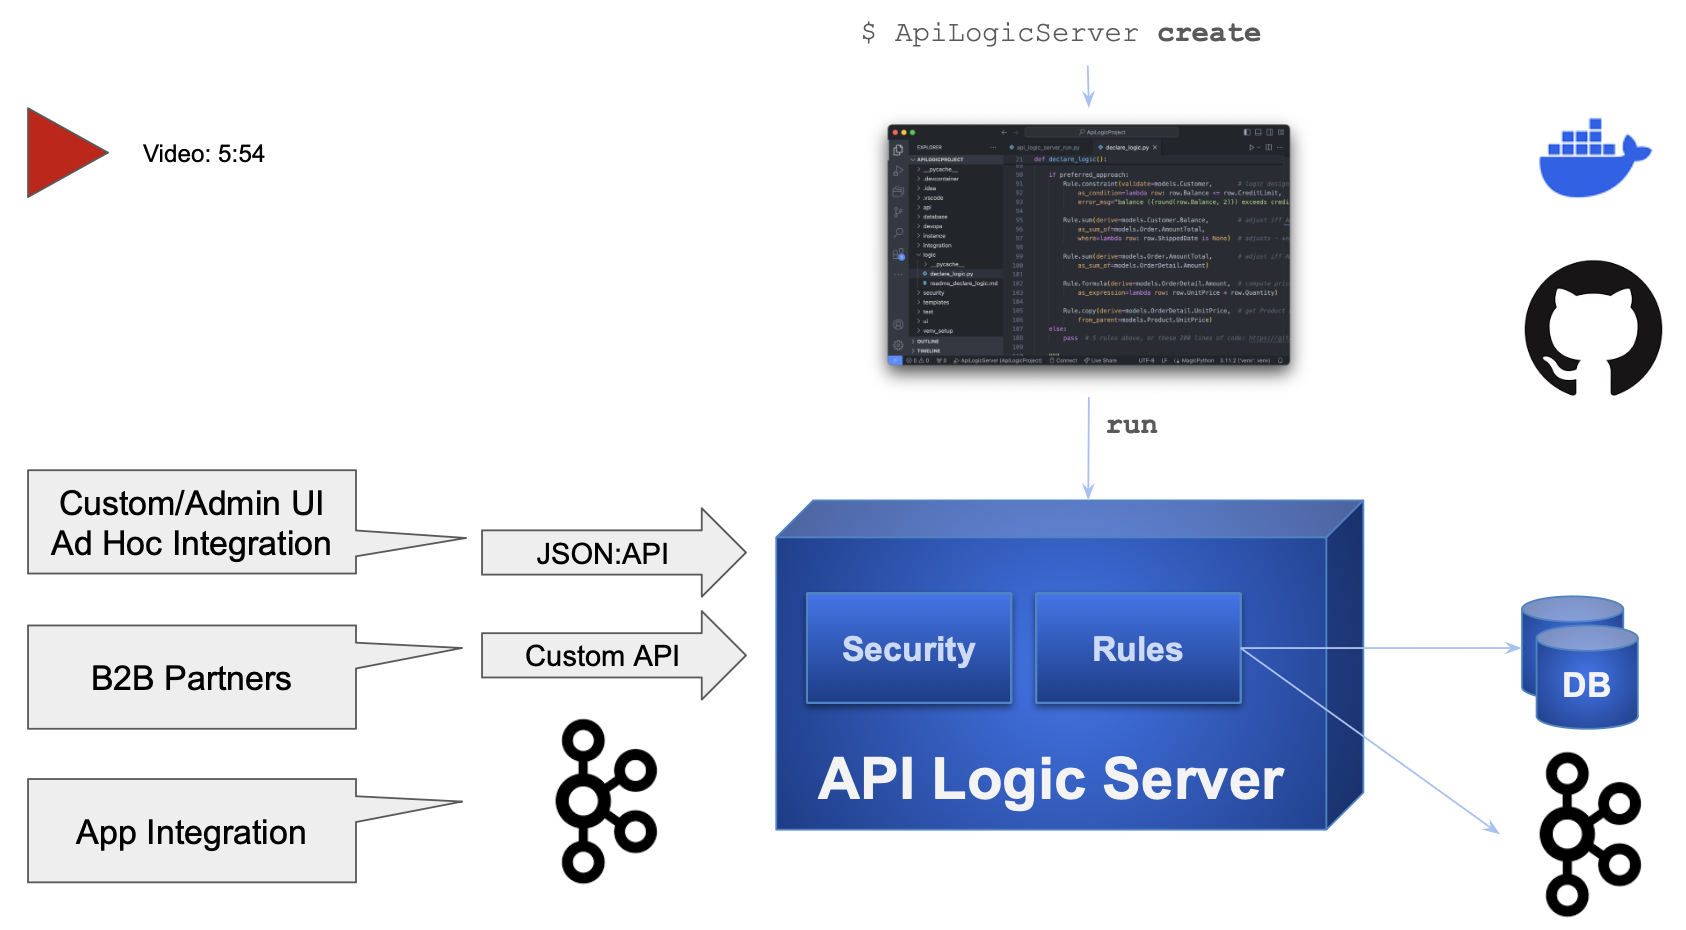
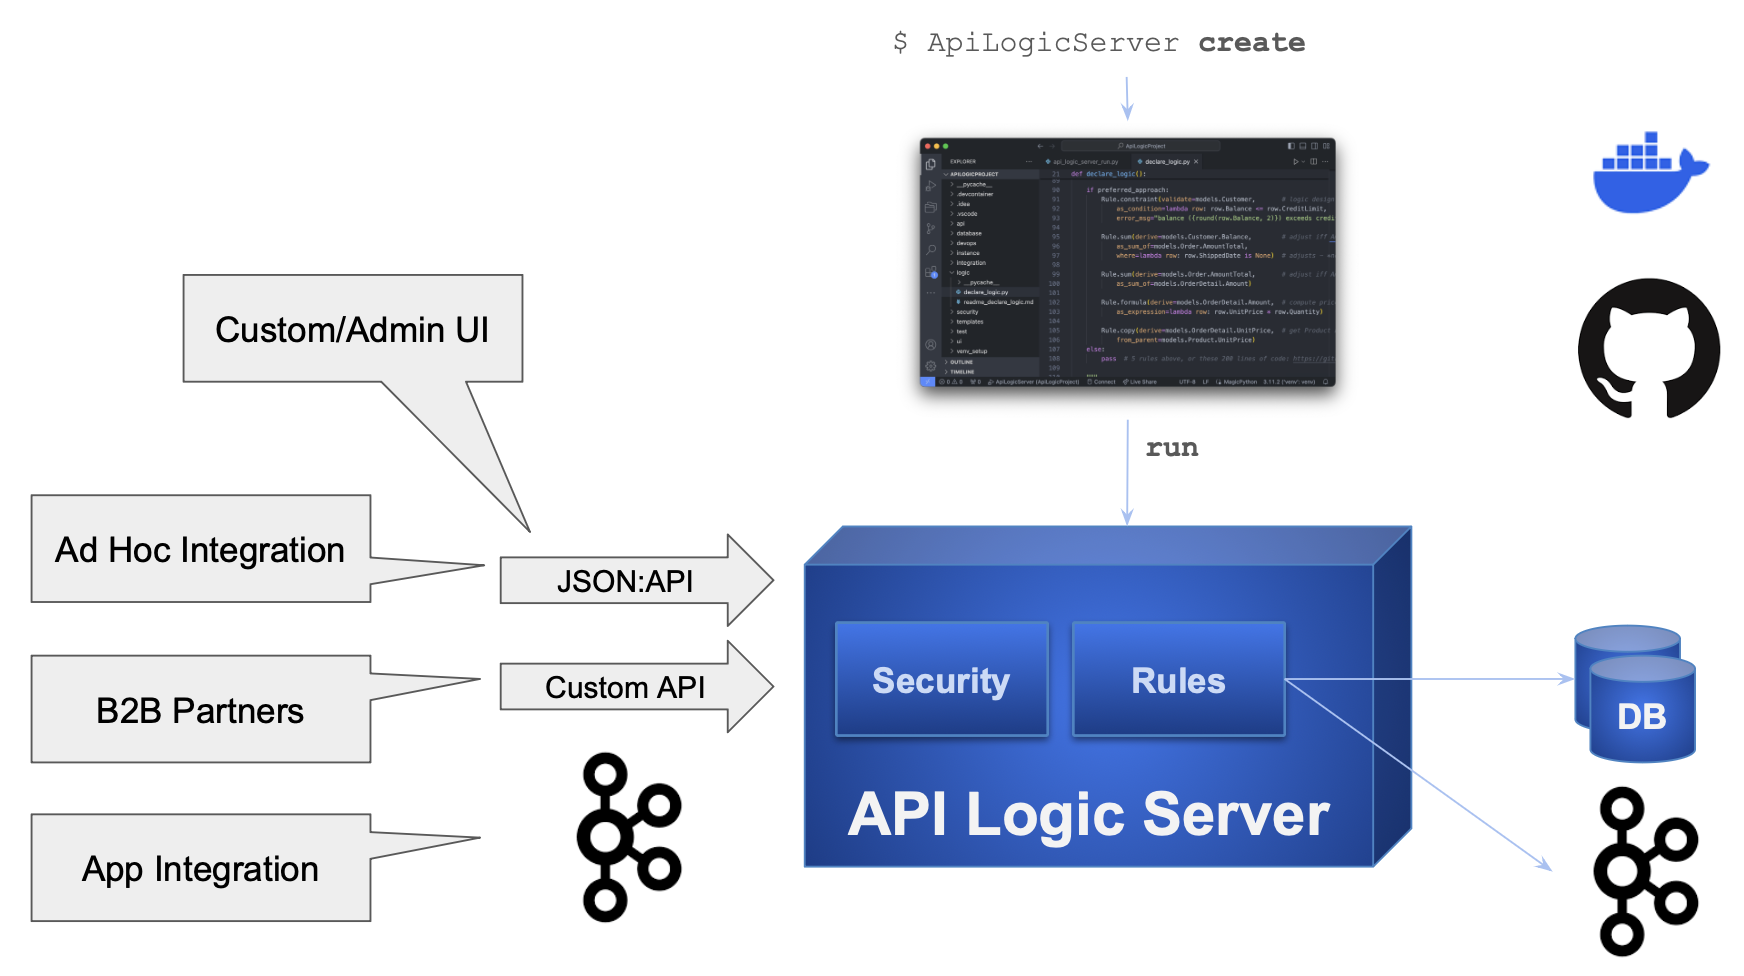
key screen shots

diff --git a/docs/index.md b/docs/index.md
@@ -30,39 +30,76 @@ Description: Instantly Create and Run Database Projects - Flask, APIs, SQLAlchem
 
 ---
 
-### Video: Create, Run, Customize
+# Usage: Create, Run, Customize
 
 API Logic Server is an open source Python project, consisting of a CLI and set of runtimes (SAFRS API, Flask, SQLAlchemy ORM, business logic engine) for project execution.
 
 It runs as a standard pip install, or under Docker. For more on API Logic Server Architecture, [see here](Architecture-What-Is.md).
 
-The `ApiLogicServer create` CLI command creates an executable project, providing a JSON:API and an Admin App.  For example, this will create the sample database:
+**1. Create: Single CLI Command**
+
+The `ApiLogicServer create` CLI command creates an executable project by reading the database schema in the `db_url` argument.  For example, this will create the sample database:
 
 ```bash
 ApiLogicServer create --project_name=ApiLogicProject --db_url=nw
 ```
 
-As shown below, you can open the project in your IDE, and customize it with Python and rules for logic and security.  Rules are significant - [40X more concise than code](Logic-Why.md){:target="_blank" rel="noopener"}.
+&nbsp;
 
-Click the image below for a video tutorial, showing complete project creation, execution, customization and debugging ([instructions here](Tech-Agile.md){:target="_blank" rel="noopener"}).  Or, see it using AI: [click here](Tutorial-AI.md).
+**2. Run: JSON:API, Admin App**
 
-[![API Logic Server](images/nutshell/als-nutshell.png)](https://youtu.be/sD6RFp8S6Fg "API Logic Server"){:target="_blank" rel="noopener"}
+The project is ready to run, providing a JSON:API and an Admin App.
 
 <details markdown>
 
-<summary>Application Integration -- JSON:APIs, Custom APIs and Messaging</summary>
+<summary>Running JSON:API and Admin App</summary>
 
 &nbsp;
 
+![Admin App](images/ui-admin/Order-Page.png)
+
+The Admin App provides a link to the Swagger:
+
+![Swagger](images/api/swagger-get-data.png)
+
+</details>
+
+&nbsp;
+
+**3. Customize: Rules and Python**
+
+You can open the project in your IDE, and customize it with Python and rules for logic and security, and custom APIs and messages.
+
+> Rules are significant - [40X more concise than code](Logic-Why.md){:target="_blank" rel="noopener"}.
+
+&nbsp;
+
+
+---
+
+# Scenarios
+
+As illustrated below, API Logic Server supports transactions from User Interfaces, and Application Integration - both via custom APIs and Kafka messages.
+
+![API Logic Server](images/nutshell/als-nutshell.png)
+
 *JSON:API* are a standard for self-serve APIs -- where clients can select the columns and the related data they require.
 
-> Self-serve APIs reduce the need for ongoing custom API development.  Analogous to GraphQL, they fulfill requirements for custom UI development and ad hoc integration.
+> Self-serve APIs reduce the need for ongoing custom API development.  Analogous to GraphQL, they fulfill requirements for UI development and ad hoc integration.
 
 You can use Python, Flask and SQLAlchemy to create Custom APIs, e.g. for B2B Partners.  In addition to the underlying logic, API Logic Server provides mapping services as described under **Application Integration.**
 
 Appication Integration support also provides automation for producing and consuming Kafka messages.  To see these services in a running sample, [click here](Sample-Integration.md){:target="_blank" rel="noopener"}.
 
-</details>
+&nbsp;
+
+---
+
+# Video: Agile Collaboration
+
+Click the image below for a video tutorial, showing complete project creation, execution, customization and debugging ([instructions here](Tech-Agile.md){:target="_blank" rel="noopener"}).  Or, see it using AI: [click here](Tutorial-AI.md).
+
+[![Delivering the Agile Vision](images/agile/als-agile-video.png)](https://youtu.be/sD6RFp8S6Fg "Using VS Code with the ApiLogicServer container"){:target="_blank" rel="noopener"}
 
 &nbsp;
 
